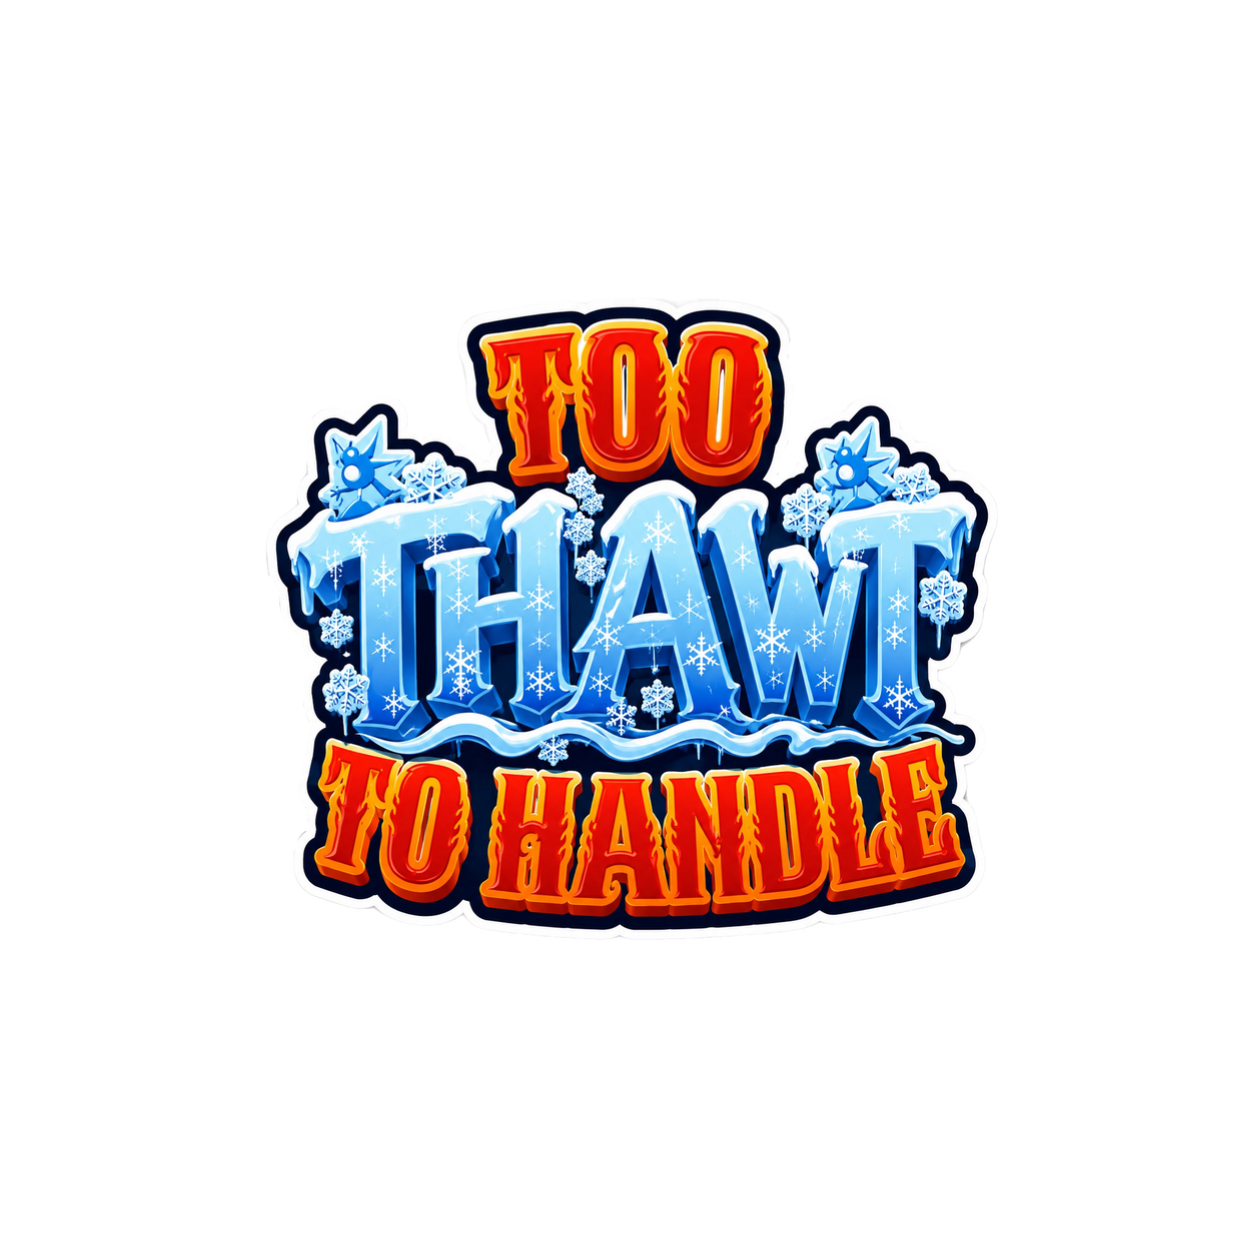
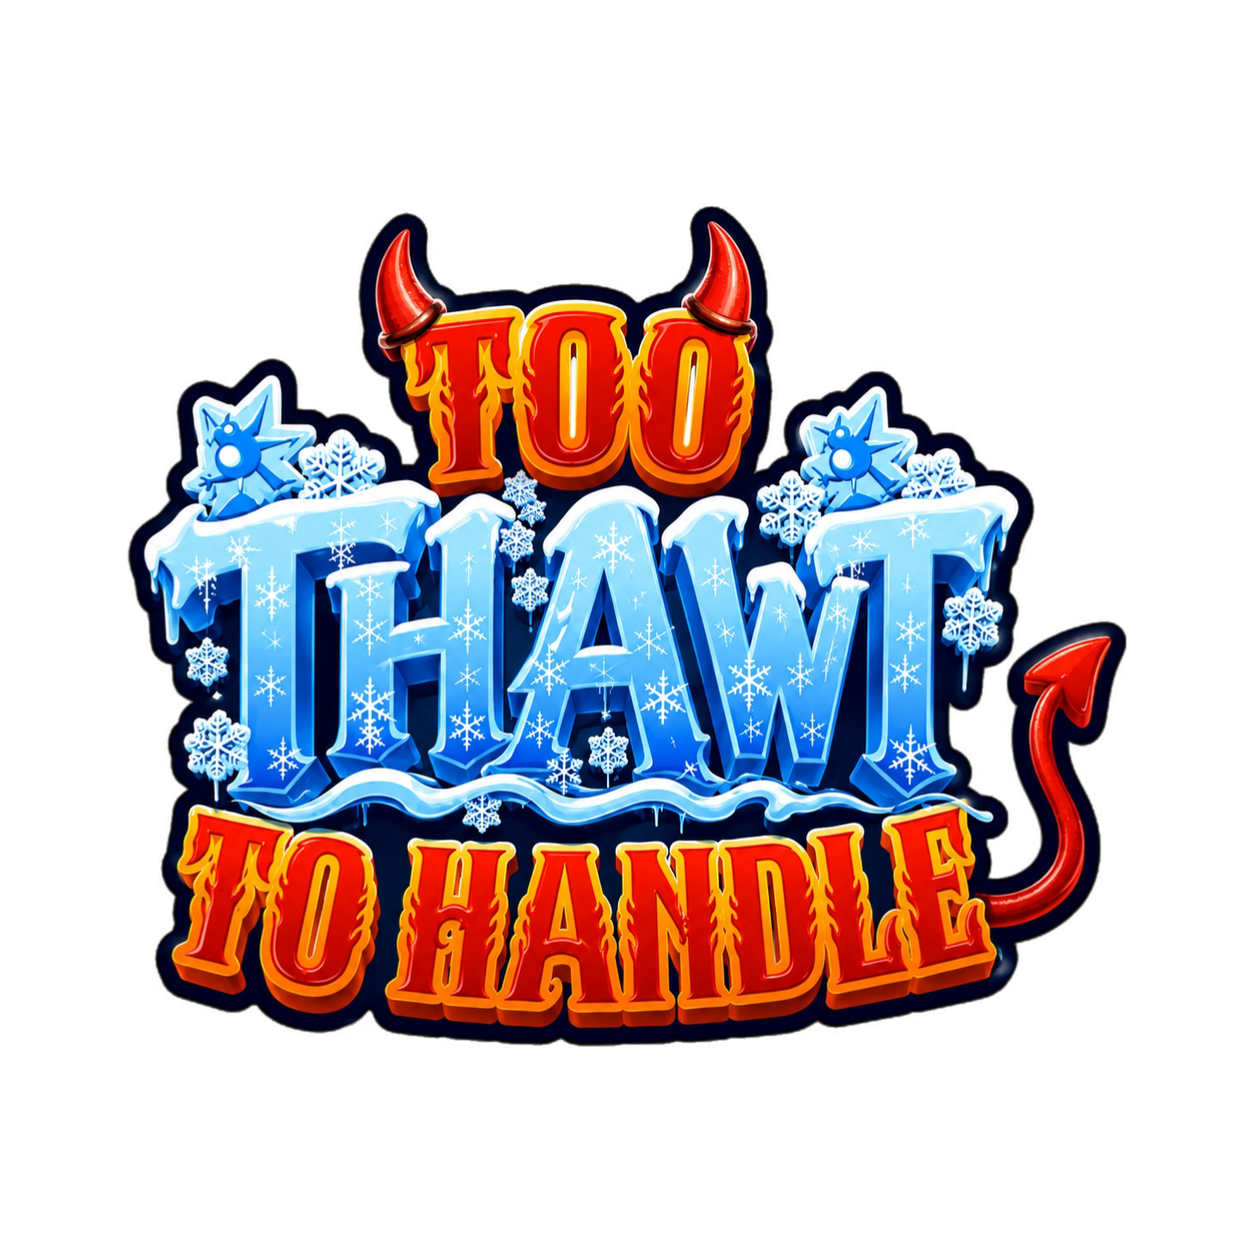
graphics add

diff --git a/public/index.html b/public/index.html
@@ -390,8 +390,8 @@
                 { id: 1, name: "Bear Essentials", logo: "Bear Essentials.png", color: "#FA8F18" },
                 { id: 2, name: "Edgewood High School", logo: "Edgewood High School.png", color: "#FCA8CC" },
                 { id: 3, name: "F*ck It We Ball", logo: "BeefwithaQ.png", color: "#4ECDC4" }, // New Name (Need Logo and Color)
-                { id: 4, name: "Gecko Chamber", logo: "SunglassSquad.png", color: "#FCBAD3" }, // New Name ((NEED LOGO & COLOR))
-                { id: 5, name: "Identity Thieves", logo: "IdentityThieves.png", color: "#AA96DA" },// Same Name (Need Logo and Color)
+                { id: 4, name: "Gecko Chamber", logo: "Gecko Chamber.png", color: "#CFEC2D" },
+                { id: 5, name: "Identity Thieves", logo: "Identity Thieves.png", color: "#504C5D" },
                 { id: 6, name: "Nerd World Order", logo: "NerdWorldOrder.png", color: "#953B0E" },
                 { id: 7, name: "New Directions", logo: "New Directions.png", color: "#EE2634" },
                 { id: 8, name: "Old Ladies", logo: "OldLadies.png", color: "#A8D8EA" }, // Same Name (Need Logo & Color)